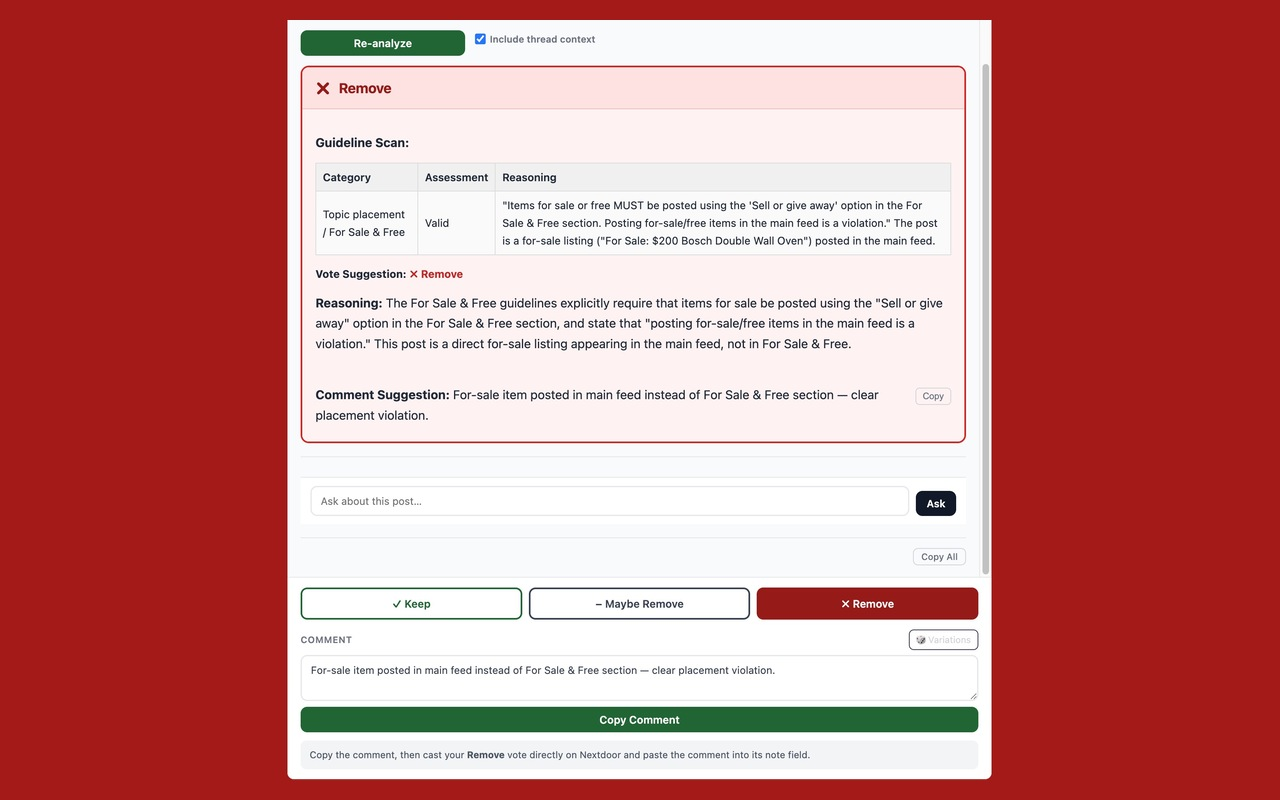
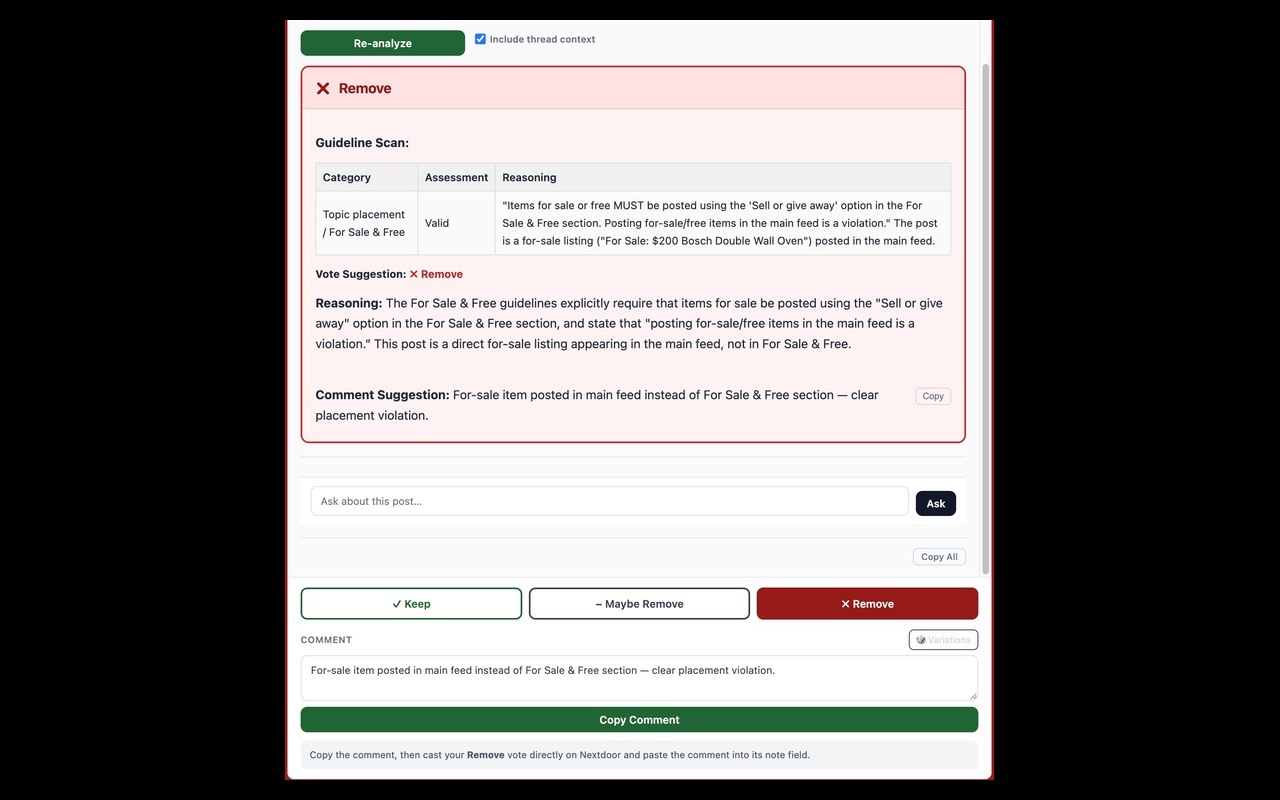
Blur PII in screenshots, fix PRIVACY.md, drop stale store-screenshot pngs
- Blur last names and precise locations in 02/04 screenshots (real
  community data) and regenerate the black-canvas CWS store versions from
  the blurred sources
- PRIVACY.md: fix broken repo link, correct stale Review-persistence claim,
  disclose region-capture screenshots sent to the LLM
- Remove 5 leftover pre-side-panel .png store screenshots (superseded by
  the current .jpeg set)

diff --git a/PRIVACY.md b/PRIVACY.md
@@ -1,6 +1,6 @@
 # Privacy Policy — Nextdoor Moderator Assistant
 
-*Last updated: June 2026*
+*Last updated: August 2026*
 
 ## Summary
 
@@ -15,6 +15,7 @@ When you click **Analyze with AI**, the extension sends the following to your co
 - The text of the flagged post and its conversation thread
 - Report tags and vote counts (no reviewer identity)
 - Any additional context you type into the context field
+- Any screenshot you capture using the region-capture ("📷") tool in the Review tab's Additional Context or the Post Panel chat — sent as image data to help the model assess content (e.g. a video or GIF frame) that can't be represented as text
 
 This data is sent directly from your browser to the LLM API endpoint. It is not routed through any developer-owned server.
 
@@ -22,9 +23,10 @@ This data is sent directly from your browser to the LLM API endpoint. It is not 
 
 The following is stored in Chrome's `chrome.storage.local` (on your device only):
 
-- Your LLM API key(s)
-- Your selected provider and model
-- Cached analysis results for posts you have reviewed (stored by post ID, cleared when the extension is removed)
+- Your LLM API key(s) and selected model, stored separately per provider
+- Your cached Post Panel chat conversation for a given post (stored by post ID, expires automatically after 7 days)
+
+Screenshots you capture with the region-capture tool are held in memory only for the current session — never written to `chrome.storage.local` — and are cleared when you switch posts or close the panel. The Review tab does not persist anything between posts; switching posts clears its analysis and Q&A.
 
 None of this data is accessible to the developer or any third party.
 
@@ -54,4 +56,4 @@ If this policy changes materially, the updated version will be committed to this
 
 ## Contact
 
-Open an issue at [github.com/DrBenedictPorkins/nextdoor-moderator-extension](https://github.com/DrBenedictPorkins/nextdoor-moderator-extension/issues).
+Open an issue at [github.com/DrBenedictPorkins/nextdoor-moderator-chrome](https://github.com/DrBenedictPorkins/nextdoor-moderator-chrome/issues).
